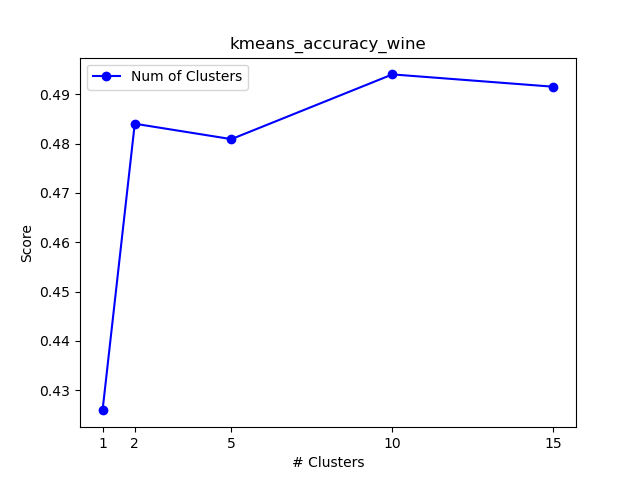
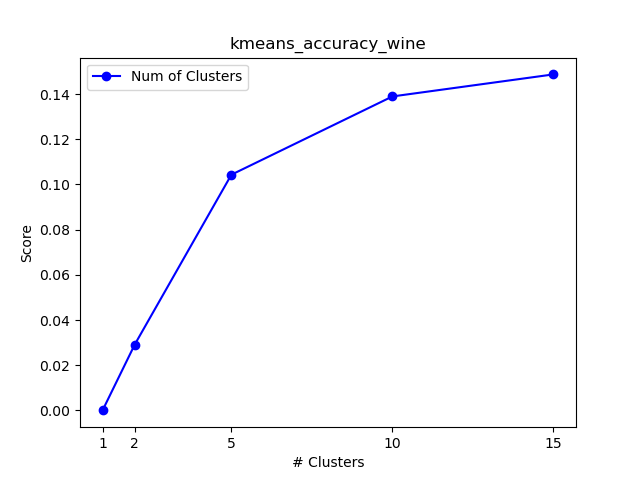
Updated to collect more metrics

diff --git a/UnsupervisedLearning/Clustering.py b/UnsupervisedLearning/Clustering.py
@@ -1,14 +1,15 @@
-from sklearn.cluster import KMeans
-from Utility import extractData
-from sklearn.metrics import accuracy_score
+from sys import exit
+
 import matplotlib.pyplot as plt
 import numpy as np
-from sklearn import preprocessing
-from sklearn.mixture import GaussianMixture
-from sklearn.metrics import accuracy_score
-from collections import Counter
 import pandas as pd
-from sys import exit
+from sklearn import preprocessing
+from sklearn.cluster import KMeans
+from sklearn.metrics import homogeneity_score, v_measure_score
+from sklearn.mixture import GaussianMixture
+
+from Utility import extractData
+
 
 class Clustering:
 
@@ -16,9 +17,12 @@ class Clustering:
         inertia = []
         kmeans_accuracy = {}
         k_range = [1,2,5,10,15]
+
         for k in k_range :
             km = KMeans(n_clusters=k,
-                             n_init=10,
+                        init='random',
+                        n_init=10, max_iter=300,
+                        tol=1e-04,
                              random_state=123)
             km.fit(x)
             inertia.append(km.inertia_)
@@ -30,6 +34,12 @@ class Clustering:
         plt.savefig('image/'+dataTitle+'/kmeans_clusters.png')
         plt.close()
         self.plot_score_curve(kmeans_accuracy,"kmeans_accuracy_"+dataTitle)
+
+        print('K-means : clusters accuracy')
+        km_data = [(k_range),(kmeans_accuracy.values())]
+        accuracy_tab = pd.DataFrame(km_data)
+        print(accuracy_tab)
+        print(accuracy_tab.to_latex())
 
 
     def kmeansFitBestModel(self, col1, col2, dataTitle, x, k):
@@ -88,13 +98,7 @@ class Clustering:
         ci = ci + 1
 
     def cluster_accuracy(self, original, cluster_label):
-
-        prediction = np.empty_like(original)
-        for cl in set(cluster_label):
-            mask = cluster_label == cl
-            target = Counter(original[mask]).most_common(1)[0][0]
-            prediction[mask] = target
-        return accuracy_score(original, prediction)
+        return v_measure_score(original,cluster_label, 0.01)
 
     def plot_score_curve(self, data, title):
 
@@ -118,6 +122,7 @@ def main():
     cluster = Clustering()
     data_file = "data/winequality-red.csv"
     x, y = extractData(data_file)
+    x = pd.DataFrame(preprocessing.scale(x), columns=x.columns)
     cluster.kMeansCluster('wine',x,y,6,10)
     cluster.kmeansFitBestModel(6, 10, 'wine', x, 5)
 
